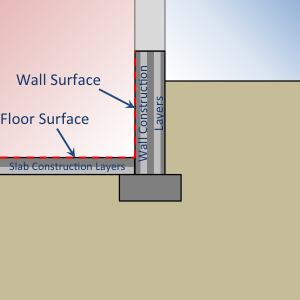
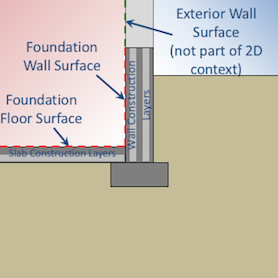
Update Kiva documentation.

Changed region(s): [[0.0, 0.0, 1.0, 0.6906], [0.6331, 0.0288, 0.9209, 0.1439]]

diff --git a/doc/input-output-reference/src/overview/group-advanced-surface-concepts.tex b/doc/input-output-reference/src/overview/group-advanced-surface-concepts.tex
@@ -478,6 +478,10 @@ Limitations when using Foundation:Kiva objects include:
   All foundation wall surfaces must be quadrilateral.
 \end{itemize}
 
+For each floor surface with ``Foundation'' set as the ``Outside Boundary Condition''
+there must also be a corresponding ``SurfaceProperty:ExposedFoundationPerimeter''
+object to define how much of the floor perimeter is below exterior walls.
+
 The inputs from Foundation:Kiva objects are translated into Kiva's
 foundation heat transfer model. Kiva\textsuperscript{TM} generates a
 two-dimensional heat transfer calculation to represent heat flow between
@@ -494,9 +498,10 @@ the ceiling of the basement and the exterior wall of the zone above the
 basement refer to ``Surface'' (or ``Zone'') and ``Outdoors'',
 respectively. Note: Not all of the foundation wall surface needs to be
 below grade (see the ``Wall Height Above Grade'' field for this object).
-Any part above grade is modeled in Kiva's two-dimensional heat transfer
-calculations. The non-foundation surfaces are shown in Figure
-\ref{fig:context} for context, but are not part of the Kiva model.
+Any part of the foundation wall above grade is modeled in Kiva's
+two-dimensional heat transfer calculations. The non-foundation surfaces
+are shown in Figure \ref{fig:context} for context, but are not part of the
+Kiva model.
 
 \begin{figure}
 \centering
@@ -769,14 +774,21 @@ Grade}\label{field-wall-height-above-grade}
 
 Distance from the exterior grade to the wall top, in m. Default: 0.2 m
 
-Figure \ref{fig:2d-w} illustrates the definition of both the ``Wall
+Figures \ref{fig:2d-w} and \ref{fig:2d-w-slab} illustrate the definition of both the ``Wall
 Height Above Grade'' and the following field, ``Wall Depth Below Slab''.
 
 \begin{figure}
 \centering
 \includegraphics{media/kiva-2d-wall.png}
 \caption{Definition of exterior grade and footing wall depth relative to
-the wall surface\label{fig:2d-w}}
+the wall surface (for a basement foundation context)\label{fig:2d-w}}
+\end{figure}
+
+\begin{figure}
+\centering
+\includegraphics{media/kiva-2d-wall-slab.png}
+\caption{Definition of exterior grade and footing wall depth relative to
+the wall surface (for a slab foundation context)\label{fig:2d-w-slab}}
 \end{figure}
 
 \paragraph{Field: Wall Depth Below
@@ -989,7 +1001,9 @@ Williamson, 1989):
 \[d_{wt}=0.1022\cdot d_{elev}\]
 
 If \(d_{wt} \le\) 40 m., the GroundWater boundary is applied, otherwise
-a ZeroFlux boundary is applied at 40 m.
+a ZeroFlux boundary is applied at 40 m. If the calculated ground water depth is
+shallower than any element of the foundation construction, then the GroundWater
+is applied at 1 m below the lowest element.
 
 Default: Autoselect.
 
@@ -1028,8 +1042,7 @@ boundary conditions) defines the perimeter of a foundation floor that is
 exposed to the exterior environment through the floor. The user may
 either define the total exposed perimeter, the fraction of the total
 perimeter that is exposed, or individually define which segments of the
-floor surface perimeter are exposed. This object is optional. By default
-it is assumed that the entire perimeter of each foundation is exposed.
+floor surface perimeter are exposed. This object is required for any floor surface with a Foundation:Kiva boundary condition.
 
 Figure \ref{fig:ex} illustrates how the exposed perimeter is determined
 from a floor plan of the foundation level.
@@ -1060,6 +1073,19 @@ interior foundation wall using an Adiabatic Outside Boundary Condition.
 
 Name of foundation floor surface.
 
+\paragraph{Field: Exposed Perimeter Calculation Method}\label{field-exposed-perimeter-calculation-method}
+
+Required key/choice field that tells which method to use to calculate the exposed foundation perimeter. Choices are:
+
+\begin{itemize}
+\item TotalExposedPerimeter: Exposed perimeter is defined as an absolute distance in m. (The Total Exposed Perimeter field should be filled.)
+
+\item ExposedPerimeterFraction: Exposed perimeter is defined as a fraction of the total floor perimeter. (The Exposed Perimeter Fraction field should be filled.)
+
+\item BySegment: Each segment of the floor polygon (corresponding to distance between each set of vertices) is defined as exposed (``Yes'') or not exposed (``No'') in an extensible list corresponding to the number of vertices in the floor polygon. Exposed perimeter is defined as the sum of all exposed segement lengths. (The Surface Segment \textless{}x\textgreater{}
+Exposed fields should be filled.)
+\end{itemize}
+
 \paragraph{Field: Total Exposed
 Perimeter}\label{field-total-exposed-perimeter}
 
@@ -1075,9 +1101,7 @@ Exposed}\label{field-surface-segment-x-exposed}
 
 Surface Segment \textless{}x\textgreater{} is the perimeter between the
 \textless{}x\textgreater{}th and (\textless{}x\textgreater{}+1)th
-vertices. The default is ``Yes'', so users may elect to only enter
-``No'' for segments that are not exposed and leave the others blank.
-Default: Yes
+vertices.
 
 \subsection{SurfaceConvectionAlgorithm:Inside:AdaptiveModelSelections}\label{surfaceconvectionalgorithminsideadaptivemodelselections}
 

diff --git a/src/Transition/InputRulesFiles/Rules8-7-0-to-8-8-0.md b/src/Transition/InputRulesFiles/Rules8-7-0-to-8-8-0.md
@@ -1,28 +1,28 @@
 Input Changes
 =============
 
-This file documents the structural changes on the input of EnergyPlus that could affect interfaces, etc. 
+This file documents the structural changes on the input of EnergyPlus that could affect interfaces, etc.
 This was previously an Excel workbook that made for very difficult version control, especially during busy times around code freezes.
 
 # Object Change: `AvailabilityManager:NightCycle`
 
 Fields 1-5 remain the same.  
-After F5, insert new alpha input choice field (A5) 'Cycling Run Time Control Type' with default key input value of 'FixedRunTime'. 
+After F5, insert new alpha input choice field (A5) 'Cycling Run Time Control Type' with default key input value of 'FixedRunTime'.
 Shift all later fields down by 1. The old input field F6 - F10 becomes the new F7-11. The new input field becomes F6.
 
 # Object Change: `ZoneControl:ContaminantController`
 
-Insert new blank field 6 (A6) (for Maximum Carbon Dioxide Concentration Schedule Name). 
+Insert new blank field 6 (A6) (for Maximum Carbon Dioxide Concentration Schedule Name).
 Shift all later fields down by one.
 
 # Object Change: `ZoneHVAC:IdealLoadsAirSystem`
 
-Insert new blank field 5 (A5) (for System Inlet Air Node Name). 
+Insert new blank field 5 (A5) (for System Inlet Air Node Name).
 Shift all later fields down by one.
 
 # Object Change: `Table:TwoIndependentVariables`
 
-Insert new blank field 14 (A7) (for External File Name). 
+Insert new blank field 14 (A7) (for External File Name).
 Shift all later fields down by one.
 
 # Object Change: `Output:Surfaces:List`
@@ -31,10 +31,17 @@ The only change is for field F1, which is A1.  Logic to apply:
 
 if key = 'DecayCurvesfromZoneComponentLoads', change to = 'DecayCurvesFromComponentLoadsSummary'
 
+# Object Change: `SurfaceProperty:ExposedFoundationPerimeter`
+
+Insert new field 2 (A2) (for Exposed Perimeter Calculation Method).
+Shift all later fields down by one.
+
+This object is now required for any floor surface with a Foundation Outside Boundary Condition.
+
 # Object Change: `UnitarySystemPerformance:Multispeed`
 
 Fields 1-4 remain the same.  
-After F4, insert one new blank field that represents the No Load Supply Air Flow Rate Ratio. 
+After F4, insert one new blank field that represents the No Load Supply Air Flow Rate Ratio.
 Shift all later fields down by one.
 
 # Object Change: `Coil:Cooling:DX:SingleSpeed`
@@ -42,7 +49,7 @@ Shift all later fields down by one.
 The only change is for field F15, which is N6.  Logic to apply:
 
 Fields 1-14 remain the same.  
-After F14, insert one new blank field that represents N6 as Minimum Outdoor Dry-Bulb Temperature for Compressor Operation {C}. 
+After F14, insert one new blank field that represents N6 as Minimum Outdoor Dry-Bulb Temperature for Compressor Operation {C}.
 Shift all later fields down by one (old N6 becomes N7).
 
 # Object Change: `Coil:Cooling:DX:TwoSpeed`
@@ -50,7 +57,7 @@ Shift all later fields down by one (old N6 becomes N7).
 The only change is for field F23, which is N10.  Logic to apply:
 
 Fields 1-22 remain the same.  
-After F22, insert one new blank field that represents N10 as Minimum Outdoor Dry-Bulb Temperature for Compressor Operation {C}. 
+After F22, insert one new blank field that represents N10 as Minimum Outdoor Dry-Bulb Temperature for Compressor Operation {C}.
 Shift all later fields down by one (old N10 becomes N11).
 
 # Object Change: `Coil:Cooling:DX:MultiSpeed`
@@ -58,7 +65,7 @@ Shift all later fields down by one (old N10 becomes N11).
 The only change is for field F7, which is N1.  Logic to apply:
 
 Fields 1-6 remain the same.  
-After F6, insert one new blank field that represents N1 as Minimum Outdoor Dry-Bulb Temperature for Compressor Operation {C}. 
+After F6, insert one new blank field that represents N1 as Minimum Outdoor Dry-Bulb Temperature for Compressor Operation {C}.
 Shift all later fields down by one (old N1 becomes N2).
 
 # Object Change: `Coil:Cooling:DX:VariableSpeed`
@@ -66,7 +73,7 @@ Shift all later fields down by one (old N1 becomes N2).
 The only change is for field F16, which is N10.  Logic to apply:
 
 Fields 1-15 remain the same.  
-After F15, insert one new blank field that represents N10 as Minimum Outdoor Dry-Bulb Temperature for Compressor Operation {C}. 
+After F15, insert one new blank field that represents N10 as Minimum Outdoor Dry-Bulb Temperature for Compressor Operation {C}.
 Shift all later fields down by one (old N10 becomes N11).
 
 # Object Change: `Coil:Cooling:DX:TwoStageWithHumidityControlMode`
@@ -74,7 +81,7 @@ Shift all later fields down by one (old N10 becomes N11).
 The only change is for field F19, which is N5.  Logic to apply:
 
 Fields 1-18 remain the same.  
-After F18, insert one new blank field that represents N5 as Minimum Outdoor Dry-Bulb Temperature for Compressor Operation {C}. 
+After F18, insert one new blank field that represents N5 as Minimum Outdoor Dry-Bulb Temperature for Compressor Operation {C}.
 Shift all later fields down by one (old N5 becomes N6).
 
 # Object Change: `ZoneHVAC:PackagedTerminalHeatPump`
@@ -82,7 +89,7 @@ Shift all later fields down by one (old N5 becomes N6).
 The only change is for field F18, which was N8.  Logic to apply:
 
 Fields 1-17 remain the same.  
-After F17, delete one field. This field was removed as redundant: Minimum Outdoor Dry-Bulb Temperature for Compressor Operation {C}. 
+After F17, delete one field. This field was removed as redundant: Minimum Outdoor Dry-Bulb Temperature for Compressor Operation {C}.
 Shift all later fields up by one (old N9 becomes N8).
 
 # Object Change: `WindowMaterial:Blind:EquivalentLayer`
@@ -91,4 +98,3 @@ The only change is for field F6 value. Th number of fields remains the same:
 
 if SlatAngle < 90, New SlatAngle = SlatAngle
 if SlatAngle >= 90, New SlatAngle =  90.0 - SlatAngle
-
